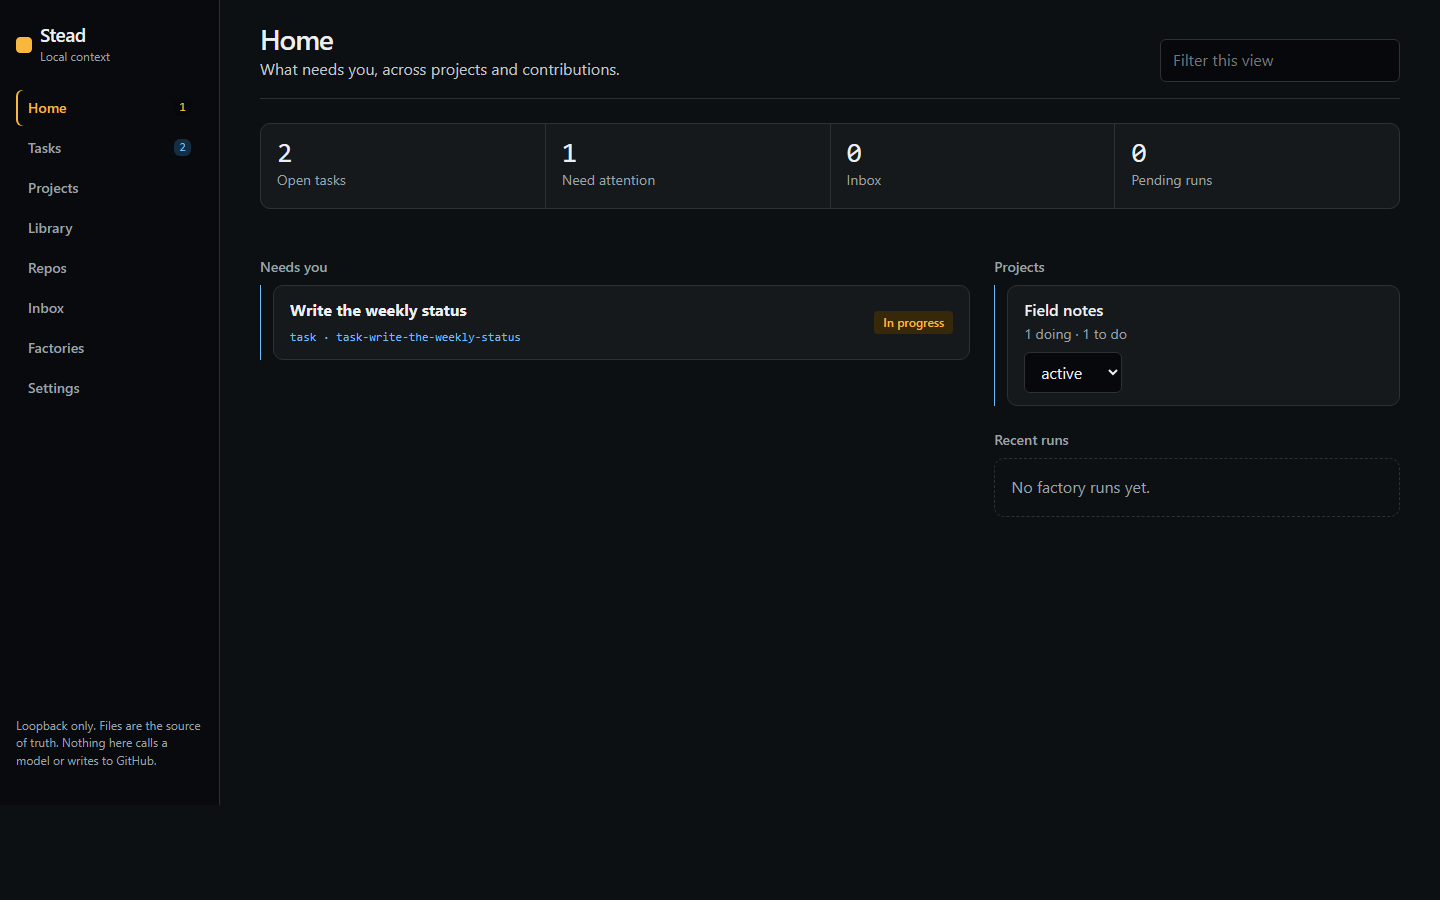
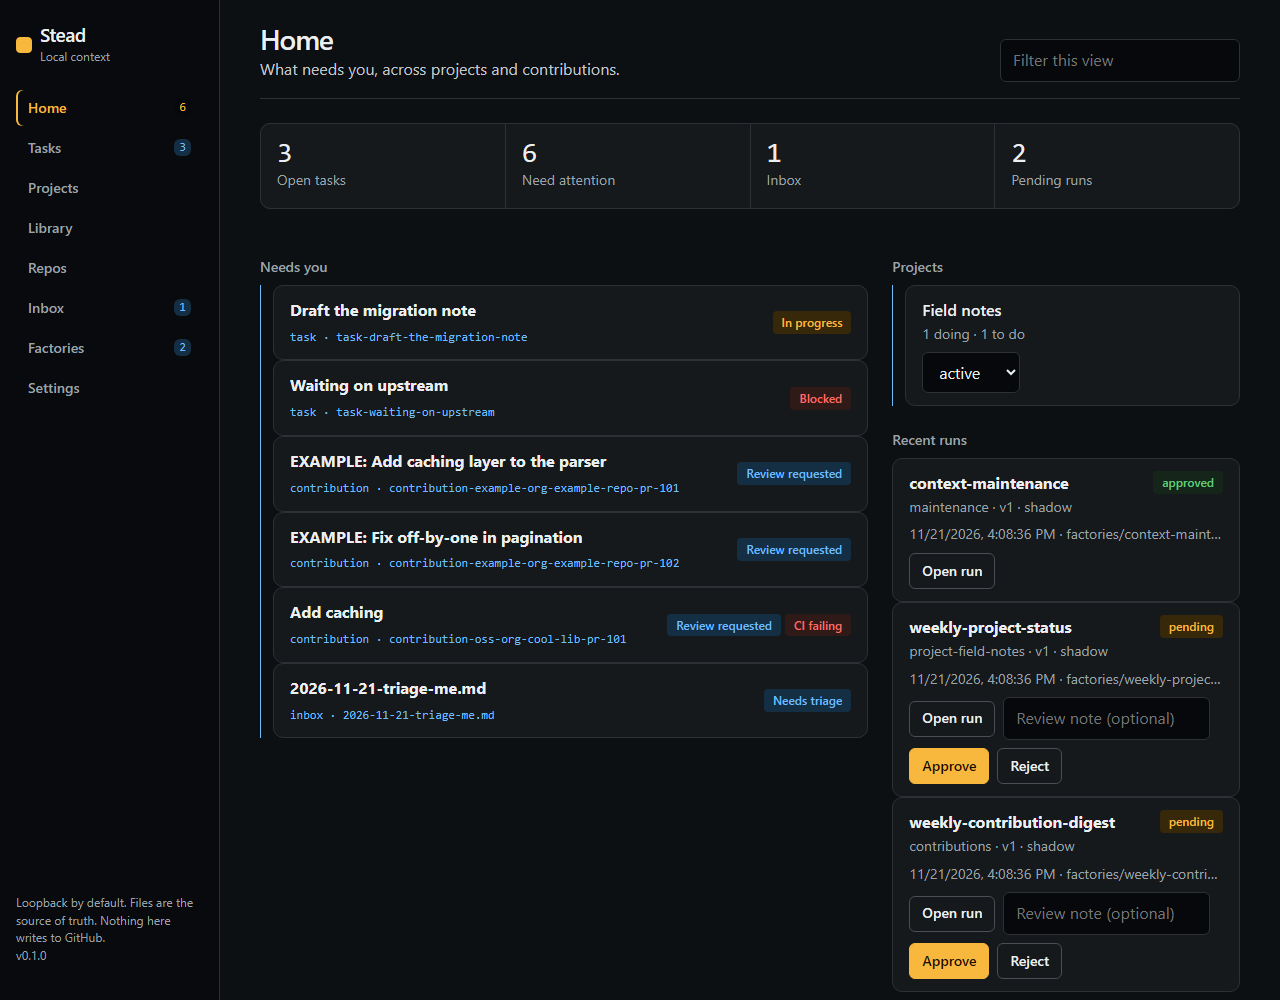
Release 0.1.0

diff --git a/ctx/cockpit.html b/ctx/cockpit.html
@@ -93,7 +93,8 @@
   body.first-run aside.nav nav, body.first-run aside.nav .nav-foot, body.first-run .top { display: none; }
   body.first-run { grid-template-columns: 1fr; }
   body.first-run aside.nav { display: none; }
-  body.first-run main { display: grid; place-items: start center; padding-top: var(--space-3xl); }
+  body.first-run main { display: block; padding: 12vh var(--space-md) var(--space-2xl); }
+  body.first-run .welcome { margin-inline: auto; }
   .welcome {
     width: min(560px, 100%); background: var(--color-paper-2);
     border: var(--rule-hair) solid var(--color-rule);
@@ -259,12 +260,14 @@
     body { grid-template-columns: 1fr; }
     aside.nav { position: static; height: auto; }
     nav { flex-direction: row; flex-wrap: wrap; }
+    .nav-foot { display: none; }
     .stats, .board { grid-template-columns: 1fr 1fr; }
     main { padding: var(--space-md) var(--space-md) var(--space-2xl); }
     input[type="search"] { width: 100%; }
     .top { flex-direction: column; align-items: stretch; }
   }
   @media (max-width: 34rem) {
+    nav { display: grid; grid-template-columns: 1fr 1fr; }
     .stats, .board { grid-template-columns: 1fr; }
     main { padding: var(--space-sm); }
     .card select, .row select, .card input, .inline input, .inline select { max-width: none; width: 100%; }

diff --git a/ctx/schedule.py b/ctx/schedule.py
@@ -40,6 +40,18 @@ def weekly_command(root: Path, project: str | None = None) -> str:
     return command
 
 
+def launcher_path(root: Path) -> Path:
+    """Short, stable path for Task Scheduler. The command itself is too long."""
+    return root / "private" / "run-weekly.cmd"
+
+
+def _write_launcher(root: Path, command: str) -> Path:
+    path = launcher_path(root)
+    path.parent.mkdir(parents=True, exist_ok=True)
+    path.write_text("@echo off\r\n" + command + "\r\n", encoding="utf-8")
+    return path
+
+
 def show(root: Path, project: str | None = None) -> str:
     command = weekly_command(root, project)
     extra = f", and {project}'s status" if project else ""
@@ -48,9 +60,10 @@ def show(root: Path, project: str | None = None) -> str:
         f"Read-only sync, a local digest if the cache changed, a maintenance\n"
         f"draft{extra}. Nothing is posted, pushed, or merged.\n\n"
         f"Command:\n{command}\n\n"
-        "Windows:\n"
+        "Windows (install writes this to private/run-weekly.cmd so the task\n"
+        "command stays under the 261 character limit):\n"
         f'schtasks /Create /TN {TASK_NAME} /SC WEEKLY /D FRI /ST 16:00 '
-        f'/TR "cmd /c {command}" /F\n\n'
+        f'/TR "cmd /c {launcher_path(root)}" /F\n\n'
         "cron:\n"
         f"0 16 * * 5 {command}\n"
     )
@@ -62,9 +75,13 @@ def install(root: Path, *, runner=None, platform: str | None = None,
     if (platform or sys.platform) != "win32":
         raise ScheduleError("this install is for Windows Task Scheduler. Use `stead schedule show` for the cron line.")
     command = weekly_command(root, project)
+    launcher = _write_launcher(root, command)
+    trigger = f'cmd /c "{launcher}"'
+    if len(trigger) > 261:
+        raise ScheduleError("the launcher path is too long for Task Scheduler")
     argv = [
         "schtasks", "/Create", "/TN", TASK_NAME, "/SC", "WEEKLY", "/D", "FRI",
-        "/ST", "16:00", "/TR", f"cmd /c {command}", "/F",
+        "/ST", "16:00", "/TR", trigger, "/F",
     ]
     if any(part in {"push", "merge", "pr"} for part in argv):
         raise ScheduleError("refusing a schedule that writes to GitHub")

diff --git a/tests/test_plan_features.py b/tests/test_plan_features.py
@@ -103,15 +103,22 @@ class ScaffoldAndImportTest(unittest.TestCase):
 
 class ScheduleAndSyncTest(unittest.TestCase):
     def test_weekly_command_does_not_push_or_merge(self) -> None:
-        text = show(Path("C:/notes"))
+        tmp = tempfile.TemporaryDirectory()
+        self.addCleanup(tmp.cleanup)
+        root = Path(tmp.name)
+        text = show(root)
         self.assertIn("sync github --limit 30 --digest", text)
         self.assertIn("context-maintenance", text)
         self.assertNotIn("factory publish", text)
         self.assertNotIn("factory merge", text)
         calls = []
-        install(Path("C:/notes"), runner=lambda argv: calls.append(argv) or "",
-                platform="win32")
+        install(root, runner=lambda argv: calls.append(argv) or "", platform="win32")
         self.assertEqual(calls[0][0], "schtasks")
+        trigger = calls[0][calls[0].index("/TR") + 1]
+        self.assertLessEqual(len(trigger), 261)
+        launcher = root / "private" / "run-weekly.cmd"
+        self.assertTrue(launcher.is_file())
+        self.assertIn("context-maintenance", launcher.read_text(encoding="utf-8"))
         self.assertNotIn("push", calls[0])
         self.assertNotIn("merge", calls[0])
 

diff --git a/tests/test_ui_actions.py b/tests/test_ui_actions.py
@@ -195,7 +195,7 @@ class CockpitActionsTest(unittest.TestCase):
         req.add_header("X-Ctx-Token", self.token)
         status, body = _read(req)
         self.assertEqual(status, 200)
-        self.assertEqual(body["version"], "0.0.1")
+        self.assertEqual(body["version"], "0.1.0")
 
     def test_run_viewer_returns_the_draft(self) -> None:
         path = f"http://127.0.0.1:{self.port}/api/run?id={self.run_id}"

diff --git a/ctx/__init__.py b/ctx/__init__.py
@@ -4,4 +4,4 @@ Run from the repo root:  python -m stead <command>
 See AGENTS.md and CONVENTIONS.md for the system contract.
 """
 
-__version__ = "0.0.1"
+__version__ = "0.1.0"

diff --git a/CHANGELOG.md b/CHANGELOG.md
@@ -1,6 +1,9 @@
 # Changelog
 
-## Unreleased
+## 0.1.0 — 2026-11-21
+
+The cockpit catches up with the CLI, a shared server has per-person sign-in,
+and the planned factory set is complete.
 
 - Delete for projects, tasks, documents, meetings, repos, and actors, in the
   CLI and the reader. A linked project or repo is refused without force.
@@ -11,6 +14,8 @@
 - The page shows its version, keeps scroll and focus, confirms before closing
   unsaved edits, traps focus in the reader, warns errors longer, and reflows at
   phone width.
+- The Windows weekly task registers a short launcher in `private/`, so a deep
+  checkout path no longer hits the 261-character limit.
 - A review note no longer replaces the draft. It is stored as `note`, and the
   run viewer shows the draft, prompt, and bundle.
 - "Needs you" lists one row per object with every reason.

diff --git a/docs/cli.md b/docs/cli.md
@@ -145,9 +145,11 @@ python -m stead schedule install [--project P]
 run a factory. The hook is off until that token exists.
 
 `schedule show` prints the Friday command for cron or Task Scheduler.
-`schedule install` creates the current user's Windows task. The job runs a
-read-only sync, a local digest if the cache changed, a maintenance draft, and
-the status of `--project` when you pass one. It does not push or merge.
+`schedule install` creates the current user's Windows task. It writes
+`private/run-weekly.cmd` and registers that short path, because Task Scheduler
+rejects a command over 261 characters. The job runs a read-only sync, a local
+digest if the cache changed, a maintenance draft, and the status of
+`--project` when you pass one. It does not push or merge.
 
 ## Publishing and merging
 

diff --git a/README.md b/README.md
@@ -14,7 +14,7 @@ own.
 > Rent the intelligence. Own the context.
 
 The model can be swapped. The files stay yours. The command is `stead`.
-Version **0.0.1**. Licensed under Apache-2.0. Copyright 2026 Tyler Rathbone.
+Version **0.1.0**. Licensed under Apache-2.0. Copyright 2026 Tyler Rathbone.
 See [LICENSE](LICENSE).
 
 ![Stead cockpit](docs/images/cockpit.png)
@@ -145,7 +145,7 @@ CI on `main` and on pull requests runs that suite on Python 3.11 and 3.12.
 Pull requests build the Docker image. `main` publishes
 `ghcr.io/theshinysylveon/stead`.
 
-## Limits of 0.0.1
+## Limits of 0.1.0
 
 - A shared server asks each person to sign in. This computer does not.
   The access token only starts a server that has no accounts yet.

diff --git a/AGENTS.md b/AGENTS.md
@@ -108,7 +108,7 @@ state.db             <- GITIGNORED, rebuildable operational index (stead init)
 ## CLI reference (run from the repo root, Python 3.11+, stdlib only)
 
 ```
-python -m stead version                       # print 0.0.1
+python -m stead version                       # print 0.1.0
 python -m stead model show                    # configured endpoint; never prints the key
 python -m stead model set --provider openai|anthropic|grok|openrouter|ollama|custom --name NAME
 python -m stead eval run [--factory F]        # structural check, no model
